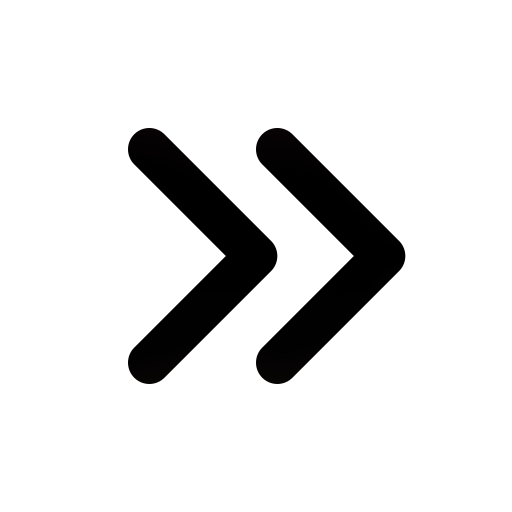
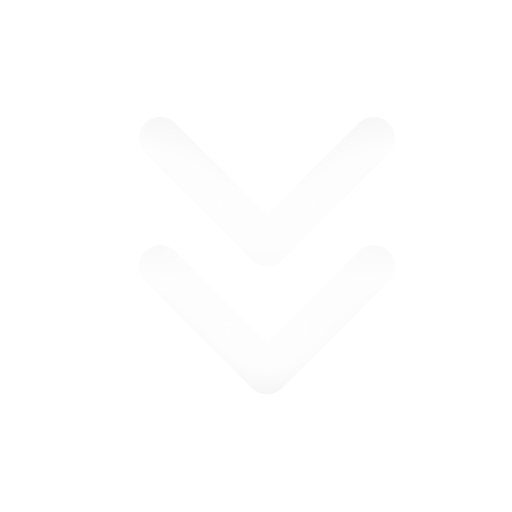
add new personal contats

Changed region(s): [[0.5, 0.25, 0.8125, 0.75], [0.25, 0.25, 0.5625, 0.75]]

diff --git a/src/components/Footer/styles.js b/src/components/Footer/styles.js
@@ -2,7 +2,9 @@ import styled from 'styled-components';
 
 import CurLogoColor from '../../assets/curriculo_color.png';
 import GitLogoOrange from '../../assets/git_logo_orange.png';
+import InstaLogoColor from '../../assets/instagram_logo_color.png';
 import LinkLogoBlue from '../../assets/linkedin_logo_blue.png';
+import WhatsColor from '../../assets/whats_logo_color.png';
 import breakepoints from '../../styles/breakepoints';
 
 export const Container = styled.div`
@@ -16,6 +18,11 @@ export const Container = styled.div`
   height: 30vh;
   padding: 50px;
 
+  @media ${breakepoints.smd} {
+    padding: 30px;
+    gap: 40px;
+  }
+
   @media ${breakepoints.sm} {
     height: 20vh;
   }
@@ -25,12 +32,20 @@ export const ContainerItens = styled.div`
   display: flex;
   gap: 20px;
 
+  @media ${breakepoints.smf} {
+    gap: 10px;
+  }
+
   img {
     width: 40px;
     cursor: pointer;
     transition: transform 0.8s ease;
 
-    @media ${breakepoints.sm} {
+    @media ${breakepoints.smd} {
+      width: 35px;
+    }
+
+    @media ${breakepoints.smf} {
       width: 25px;
     }
 
@@ -51,10 +66,26 @@ export const ContainerItens = styled.div`
     }
   }
 
+  .whats {
+    &:hover {
+      content: url(${WhatsColor});
+    }
+  }
+
+  .insta {
+    &:hover {
+      content: url(${InstaLogoColor});
+    }
+  }
+
   .cur {
     width: 42px;
 
-    @media ${breakepoints.sm} {
+    @media ${breakepoints.smd} {
+      width: 35px;
+    }
+
+    @media ${breakepoints.smf} {
       width: 28px;
     }
 
@@ -70,7 +101,11 @@ export const ContainerName = styled.div`
     font-weight: 800;
     color: white;
 
-    @media ${breakepoints.sm} {
+    @media ${breakepoints.smd} {
+      font-size: 24px;
+    }
+
+    @media ${breakepoints.smf} {
       font-size: 20px;
     }
   }
@@ -80,15 +115,15 @@ export const ContainerName = styled.div`
     font-weight: 500;
     color: #f39303;
 
-    @media ${breakepoints.smd} {
-      font-size: 14px;
-    }
-
-    @media ${breakepoints.smf} {
+    @media ${breakepoints.md} {
       font-size: 12px;
     }
 
-    @media ${breakepoints.sm} {
+    @media ${breakepoints.smd} {
+      font-size: 10px;
+    }
+
+    @media ${breakepoints.smf} {
       font-size: 8px;
     }
   }

diff --git a/src/components/Footer/index.js b/src/components/Footer/index.js
@@ -3,7 +3,9 @@ import React from 'react';
 
 import Curr from '../../assets/curriculo.png';
 import GitLogo from '../../assets/git_logo.png';
+import InstaLogo from '../../assets/instagram_logo.png';
 import LinkLogo from '../../assets/linkedin_logo.png';
+import WhatsLogo from '../../assets/whats_logo.png';
 import Doc from '../../docs/roger_curriculo.pdf';
 import { Container, ContainerName, ContainerItens } from './styles';
 
@@ -19,11 +21,39 @@ function Footer() {
       </ContainerName>
       <ContainerItens>
         <a href="https://www.linkedin.com/in/roger-fernandez22/" target="blank">
-          <img className="lik" src={LinkLogo} alt="linkedin" title="Linkedin" />
+          <img
+            className="lik"
+            src={LinkLogo}
+            alt="linkedin-logo"
+            title="Acesse meu Linkedin"
+          />
         </a>
 
         <a href="https://github.com/rogerfernandez23" target="blank">
-          <img className="git" src={GitLogo} alt="github" title="GitHub" />
+          <img
+            className="git"
+            src={GitLogo}
+            alt="github-logo"
+            title="Veja meu GitHub"
+          />
+        </a>
+
+        <a href="https://wa.me/message/PTCJSLROUW5YH1" target="blank">
+          <img
+            className="whats"
+            src={WhatsLogo}
+            alt="whats-app-logo"
+            title="Fale comigo no Whats App"
+          />
+        </a>
+
+        <a href="https://www.instagram.com/rogerfernandez_/" target="blank">
+          <img
+            className="insta"
+            src={InstaLogo}
+            alt="instagram-logo"
+            title="Veja meu Instagram"
+          />
         </a>
 
         <a href={Doc} download="roger_curriculo.pdf">

diff --git a/src/components/ScrollToTop/index.js b/src/components/ScrollToTop/index.js
@@ -1,7 +1,7 @@
 /* eslint-disable jsx-a11y/alt-text */
 import React, { useState } from 'react';
 
-import Seta from '../../assets/seta_icon.png';
+import Seta from '../../assets/seta_icon_black.png';
 import { ScrollToTopButton } from './styles';
 
 function ScrollToTop() {

diff --git a/src/components/ScrollToTop/styles.js b/src/components/ScrollToTop/styles.js
@@ -31,7 +31,6 @@ export const ScrollToTopButton = styled.button`
   img {
     width: 30px;
     margin-top: 5px;
-    transform: rotate(-90deg);
   }
 
   &:hover {
